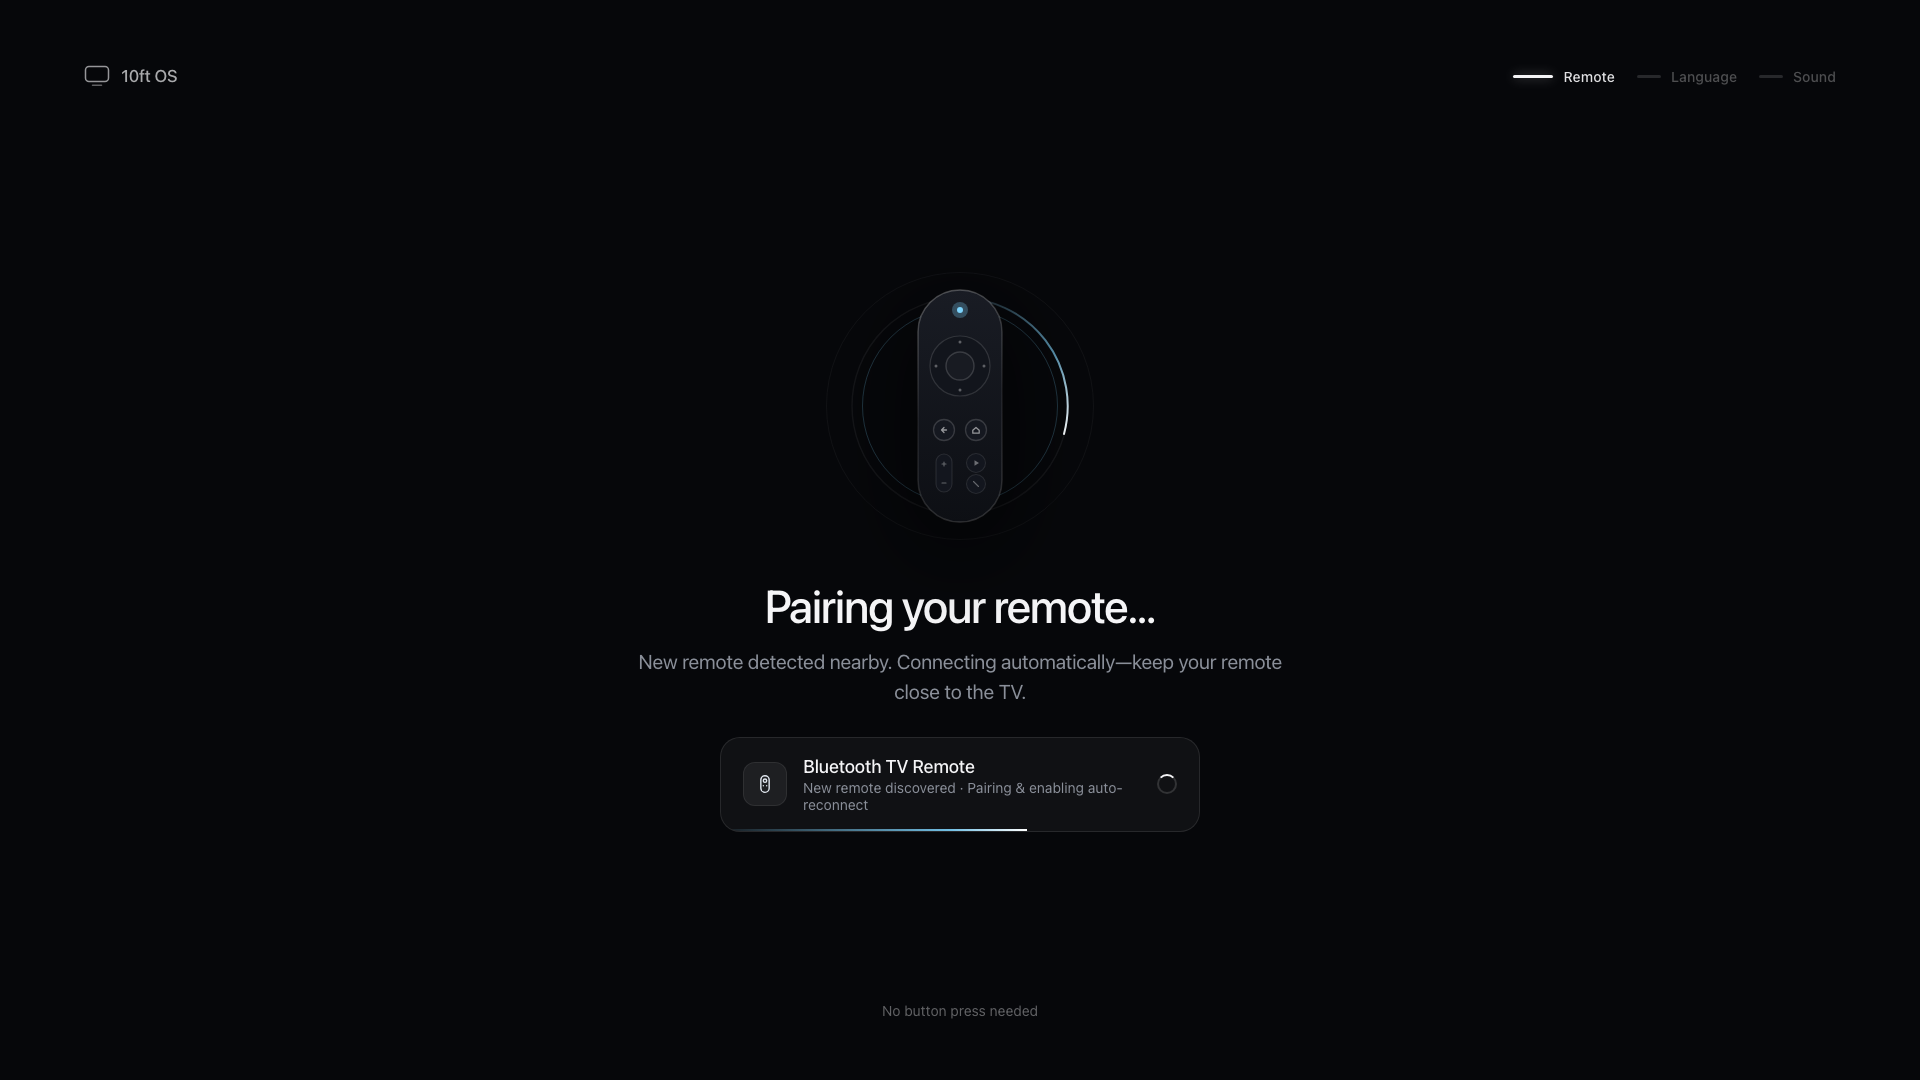
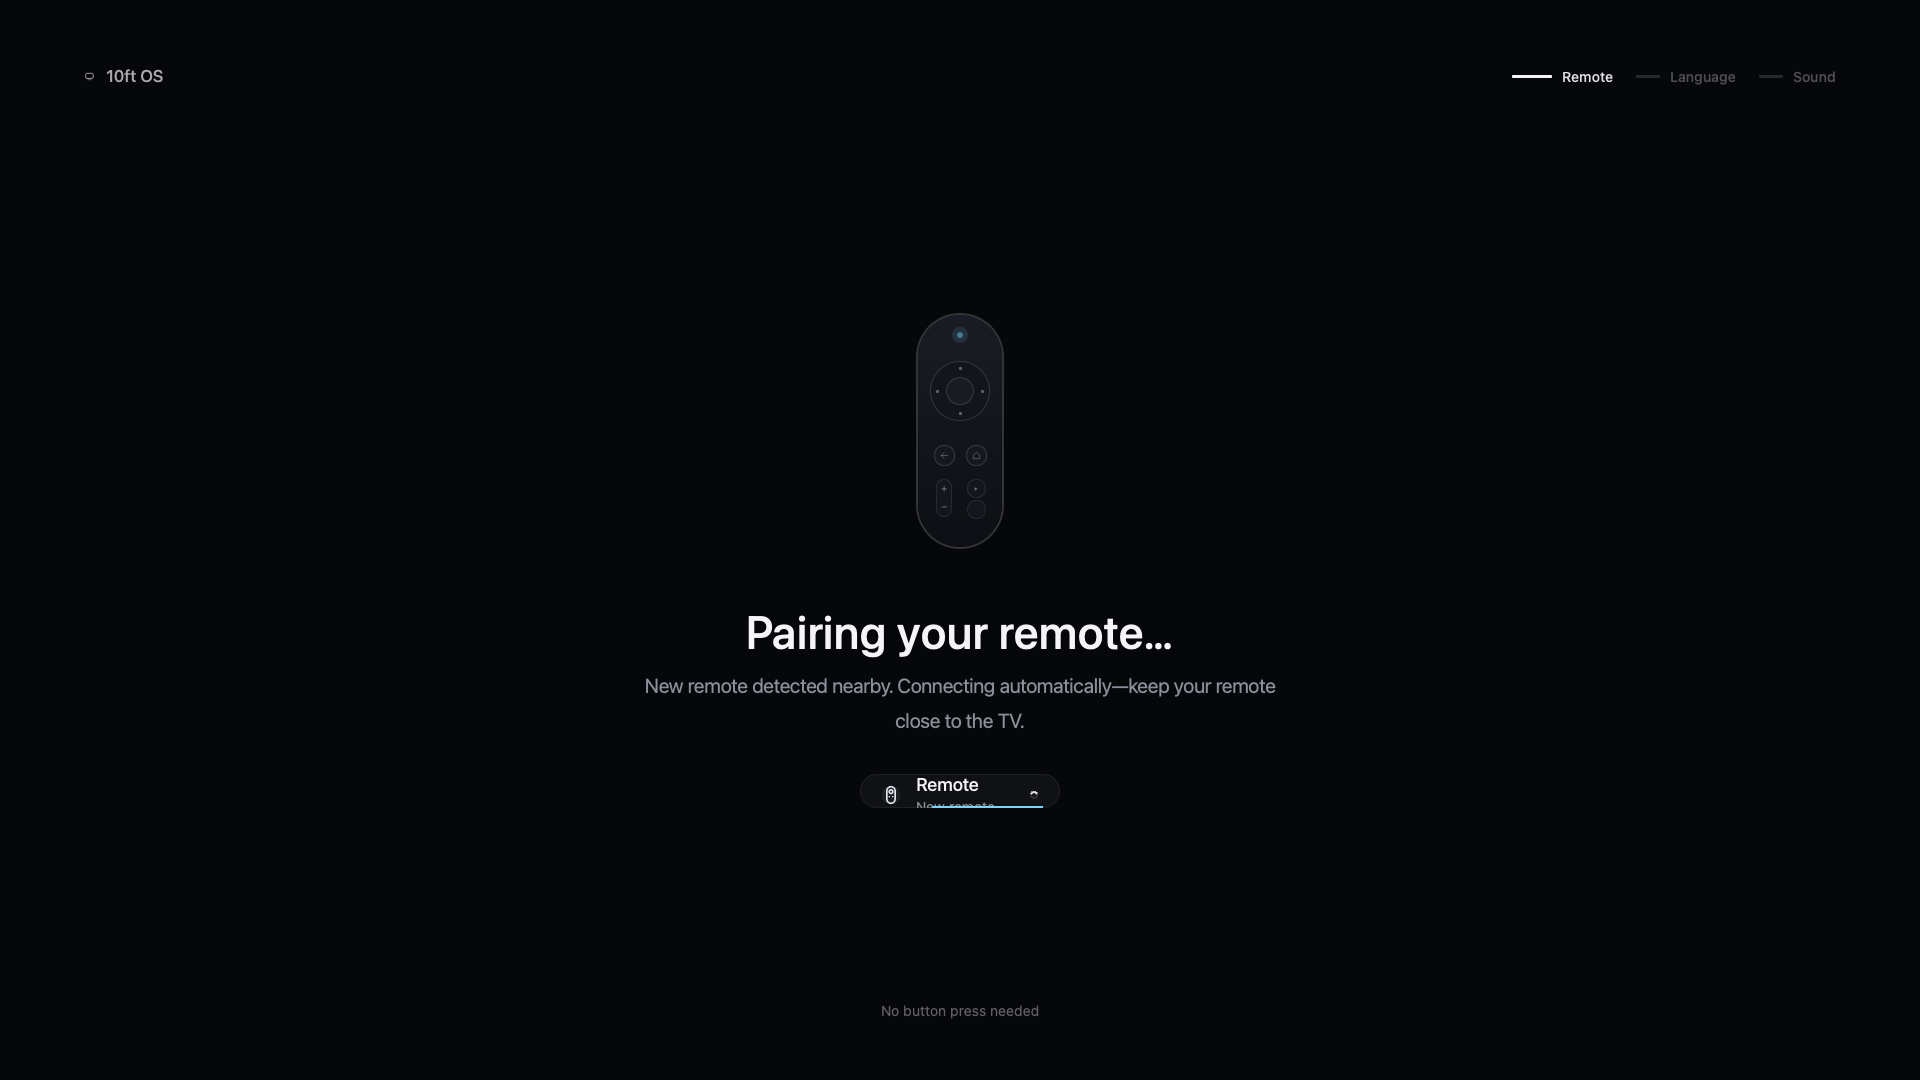
update

diff --git a/site/index.html b/site/index.html
@@ -44,7 +44,9 @@
           <a class="btn" href="https://git.sektor64.net/10ft" rel="noopener">View source</a>
         </div>
         <figure class="hero-shot">
-          <img src="assets/img/pairing.png" width="1920" height="1080" alt="10ft OS asking you to put your remote into pairing mode">
+          <img class="shot-frame shot-1" src="assets/img/pairing.png" width="1920" height="1080" alt="10ft OS showing how to pair a Google TV remote">
+          <img class="shot-frame shot-2" src="assets/img/pairing-firetv.png" width="1920" height="1080" alt="10ft OS showing how to pair a Fire TV remote" loading="lazy">
+          <img class="shot-frame shot-3" src="assets/img/pairing-xbox.png" width="1920" height="1080" alt="10ft OS showing how to pair an Xbox Series controller" loading="lazy">
         </figure>
       </div>
     </section>
